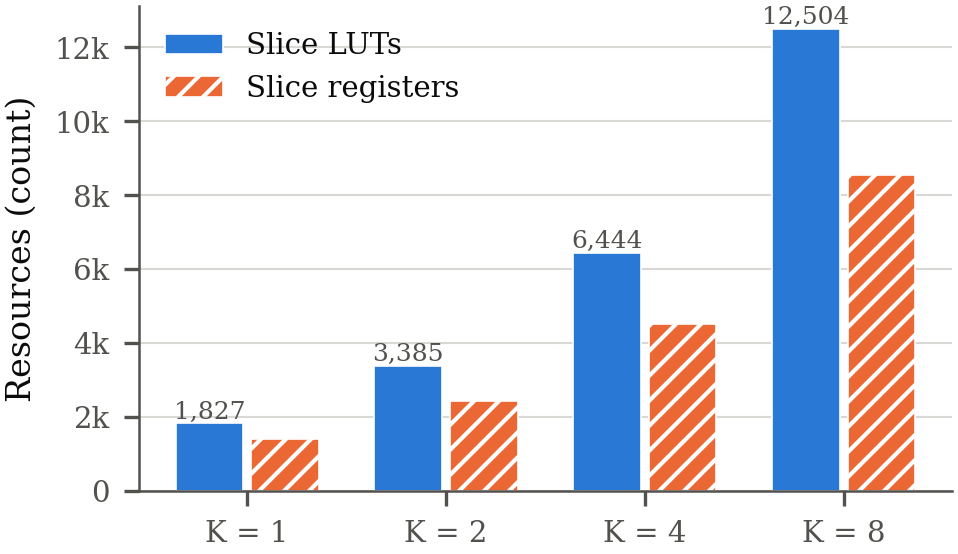
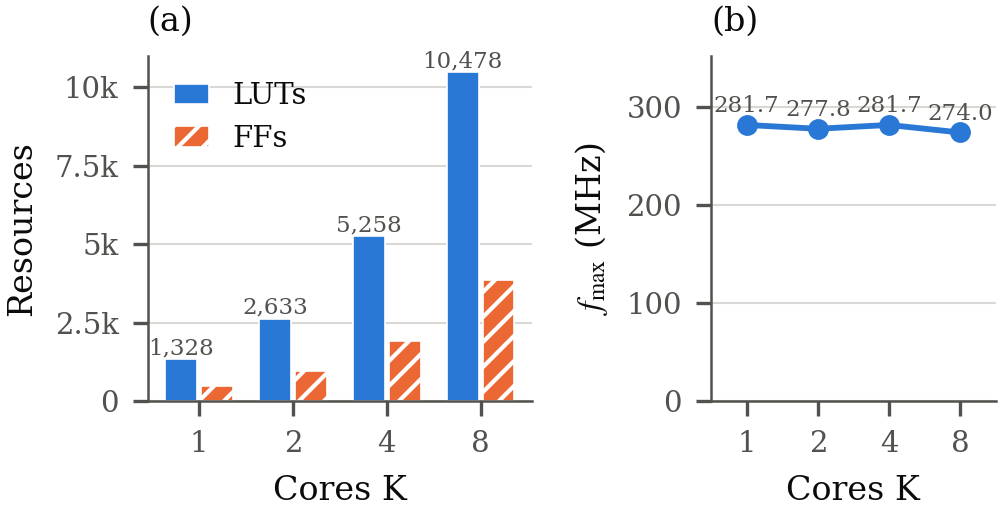
update figure

diff --git a/python_simulation/plot_results.py b/python_simulation/plot_results.py
@@ -1,7 +1,7 @@
 """
 plot_results.py - figures and tables for the letter from the simulation
 (results/*.csv, written by multilink_sim.py --sweep paper) and the Vivado
-scaling run (build/multi_scaling/<part>/scaling.csv).
+Fmax search (build/fmax_ooc/<part>/ascon_aead_array_K*/summary.txt).
 
 Outputs (figures/): PDF for LaTeX + PNG preview
     fig_multilink_delay     C2 gateway crypto delay (p99) vs links, K = 1/2/4/8,
@@ -9,7 +9,8 @@ Outputs (figures/): PDF for LaTeX + PNG preview
     fig_multilink_delivery  bulk delivered share vs links (saturation)
     fig_crypto_overhead     AEAD time (encrypt + decrypt) per message type
     fig_scheduler           C2 delay, priority vs FIFO scheduling (K = 1)
-    fig_scaling             LUT / FF of ascon_aead_axi_multi vs K
+    fig_scaling             ascon_aead_array #(K) after place and route: LUT / FF and
+                            closed-timing Fmax vs K (build/fmax_ooc/.../summary.txt)
     table_latency.tex       Table II: latency without / with AEAD per message
 
 Sizes follow IEEE: single column 3.5 in, double column 7.16 in, 8 pt text.
@@ -34,7 +35,6 @@ from matplotlib.ticker import FuncFormatter  # noqa: E402
 HERE = os.path.dirname(os.path.abspath(__file__))
 RESULTS = os.path.join(HERE, "results")
 FIGURES = os.path.join(HERE, "figures")
-SCALING = os.path.join(HERE, "..", "build", "multi_scaling", "xc7z020clg400-1", "scaling.csv")
 
 # ---------------------------------------------------------------------------
 # Style: reference categorical palette, fixed slot order (blue, orange, aqua,
@@ -261,24 +261,58 @@ def table_latency(rows, params):
 # ---------------------------------------------------------------------------
 # Resource scaling (Vivado)
 # ---------------------------------------------------------------------------
+def read_arch_scaling():
+    """Closed-timing post-route results of ascon_aead_array #(K) (find_fmax_ooc.tcl)."""
+    rows = []
+    base = os.path.join(HERE, "..", "build", "fmax_ooc", "xc7z020clg400-1")
+    for k in (1, 2, 4, 8):
+        path = os.path.join(base, f"ascon_aead_array_K{k}", "summary.txt")
+        r = read_csv(path)
+        if r:
+            r = r[0]
+            r["K"] = k
+            rows.append(r)
+    return rows
+
+
 def fig_scaling(rows):
+    """(a) LUT / FF vs K, (b) closed-timing Fmax vs K - one axis per panel."""
     rows = sorted(rows, key=lambda r: r["K"])
     ks = [int(r["K"]) for r in rows]
-    fig, ax = plt.subplots(figsize=(SINGLE, 2.1))
+    xs = list(range(len(ks)))
+    fig, (ax1, ax2) = plt.subplots(1, 2, figsize=(SINGLE, 1.9), gridspec_kw={"width_ratios": [1.35, 1]})
+
     w = 0.38
-    xs = range(len(ks))
-    ax.bar([x - w / 2 for x in xs], [r["lut"] for r in rows], width=w - 0.04, color=SLOT[0],
-           hatch=HATCHES[0], edgecolor="white", linewidth=0.4, label="Slice LUTs")
-    ax.bar([x + w / 2 for x in xs], [r["ff"] for r in rows], width=w - 0.04, color=SLOT[1],
-           hatch=HATCHES[1], edgecolor="white", linewidth=0.4, label="Slice registers")
+    ax1.bar([x - w / 2 for x in xs], [r["lut"] for r in rows], width=w - 0.04, color=SLOT[0],
+            hatch=HATCHES[0], edgecolor="white", linewidth=0.4, label="LUTs")
+    ax1.bar([x + w / 2 for x in xs], [r["ff"] for r in rows], width=w - 0.04, color=SLOT[1],
+            hatch=HATCHES[1], edgecolor="white", linewidth=0.4, label="FFs")
     for x, r in zip(xs, rows):
-        ax.text(x - w / 2, r["lut"], f"{int(r['lut']):,}", ha="center", va="bottom", fontsize=6, color=INK2)
-    ax.set_xticks(list(xs))
-    ax.set_xticklabels([f"K = {k}" for k in ks])
-    ax.set_ylabel("Resources (count)")
-    ax.yaxis.set_major_formatter(FuncFormatter(lambda v, _p: f"{v / 1000:g}k" if v else "0"))
-    ax.legend(loc="upper left")
-    style_axes(ax)
+        ax1.text(x - w / 2, r["lut"], f"{int(r['lut']):,}", ha="center", va="bottom", fontsize=5.5, color=INK2)
+    ax1.set_xticks(xs)
+    ax1.set_xticklabels([str(k) for k in ks])
+    ax1.set_xlabel("Cores K")
+    ax1.set_ylabel("Resources")
+    ax1.yaxis.set_major_formatter(FuncFormatter(lambda v, _p: f"{v / 1000:g}k" if v else "0"))
+    ax1.legend(loc="upper left", handlelength=1.2)
+    ax1.set_title("(a)", loc="left")
+    style_axes(ax1)
+
+    ax2.plot(xs, [r["fmax_mhz"] for r in rows], color=SLOT[0], marker=MARKERS[0])
+    for x, r in zip(xs, rows):
+        ax2.text(x, r["fmax_mhz"] + 8, f"{r['fmax_mhz']:.1f}", ha="center", va="bottom", fontsize=5.5, color=INK2)
+    ax2.set_xticks(xs)
+    ax2.set_xticklabels([str(k) for k in ks])
+    ax2.set_xlabel("Cores K")
+    ax2.set_ylabel("$f_{\\max}$ (MHz)")
+    # Zero-based axis: the K-to-K differences (a few MHz) are place-and-route
+    # variation, not a trend; a truncated axis would exaggerate them.
+    ax2.set_ylim(0, 1.25 * max(r["fmax_mhz"] for r in rows))
+    ax2.set_xlim(-0.5, len(ks) - 0.5)
+    ax2.set_title("(b)", loc="left")
+    style_axes(ax2)
+
+    fig.tight_layout(w_pad=1.0)
     save(fig, "fig_scaling")
 
 
@@ -301,7 +335,7 @@ def main():
         fig_multilink_delivery(ml, a.scenario)
         fig_scheduler(ml, a.scenario)
 
-    sc = read_csv(SCALING)
+    sc = read_arch_scaling()
     if sc:
         fig_scaling(sc)
 
